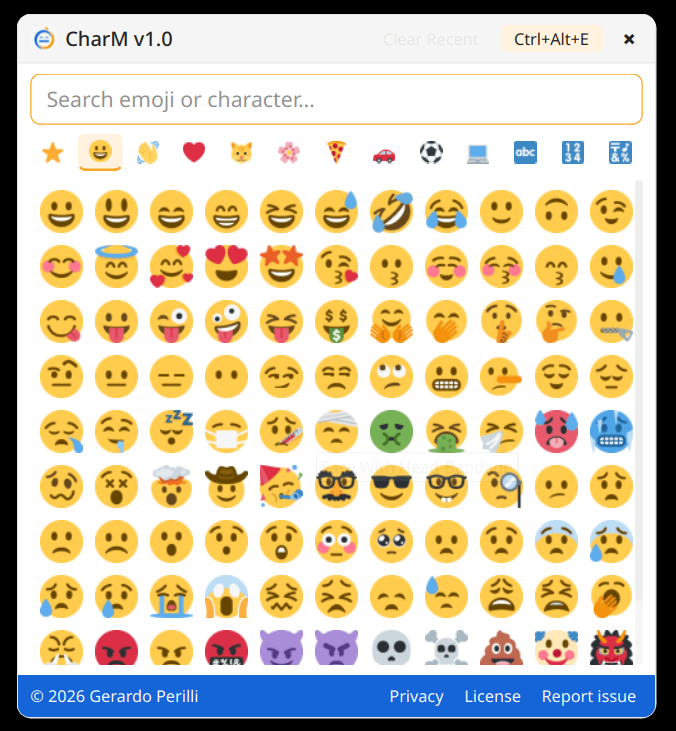
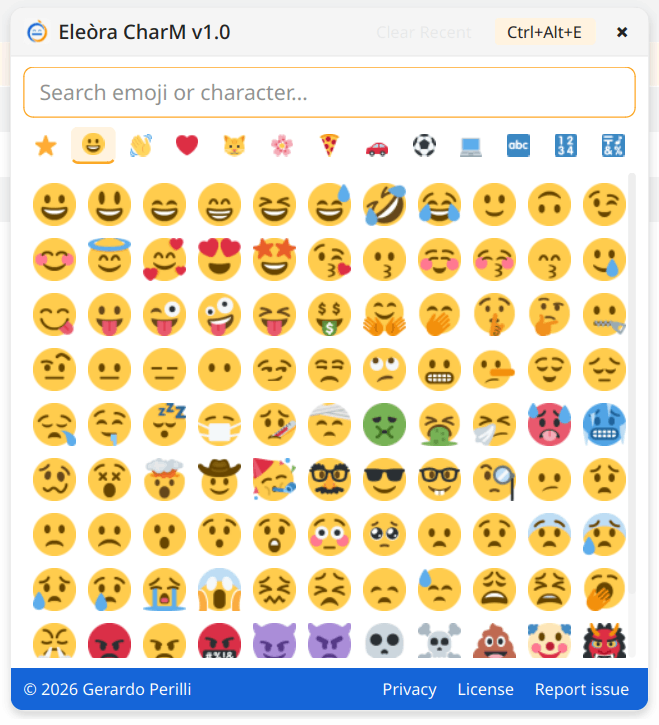
First release

diff --git a/charm.py b/charm.py
@@ -81,8 +81,8 @@ APP_LANG = detect_app_language()
 
 STRINGS = {
     LANG_EN: {
-        "header_title": f"{APP_NAME} v{APP_VERSION.split('-', 1)[0]}",
-        "window_title": APP_NAME,
+        "header_title": f"{DEV_NAME} {APP_NAME} v{APP_VERSION.split('-', 1)[0]}",
+        "window_title": f"{DEV_NAME} {APP_NAME}",
         "hotkey_badge": APP_HOTKEY_DISPLAY,
         "clear_recent_button": "Clear Recent",
         "clear_recent_tooltip": "Clear the history of recently used emoji",
@@ -96,7 +96,7 @@ STRINGS = {
         "service_privacy_tooltip": "Privacy policy",
         "service_license_tooltip": "MIT License",
         "service_issue_tooltip": "Report an issue on GitHub",
-        "tray_tooltip": f"{APP_NAME}  [{APP_HOTKEY_DISPLAY}]",
+        "tray_tooltip": f"{DEV_NAME} {APP_NAME}  [{APP_HOTKEY_DISPLAY}]",
         "tray_open": f"Open {APP_NAME}",
         "tray_paste_info": f"{APP_HOTKEY_DISPLAY} • paste: {{method}}",
         "title_icon_tooltip": f"{DEV_NAME} on GitHub",
@@ -2115,11 +2115,13 @@ def start_socket_server():
 # ── MAIN ─────────────────────────────────────────────────────────────────────
 
 def main():
-    # ── --show handling: notify the existing instance ──────────────
-    if "--show" in sys.argv:
+    show_on_start = "--show" in sys.argv
+
+    # If another instance is already running, ask it to show the picker
+    # and exit immediately. Keep --check-assets independent.
+    if "--check-assets" not in sys.argv:
         if send_show_command():
             sys.exit(0)
-        # No running instance: start normally.
 
     # ── App setup ─────────────────────────────────────────────────
     # Force XCB on mixed environments (KDE Wayland with XWayland).
@@ -2176,6 +2178,9 @@ def main():
 
     signals.toggle_window.connect(toggle)
     signals.show_window.connect(lambda: (focus_tracker.capture(), picker.show_at_cursor()))
+
+    if show_on_start:
+        QTimer.singleShot(0, signals.show_window.emit)
 
     # ── Socket IPC ────────────────────────────────────────────────
     start_socket_server()
